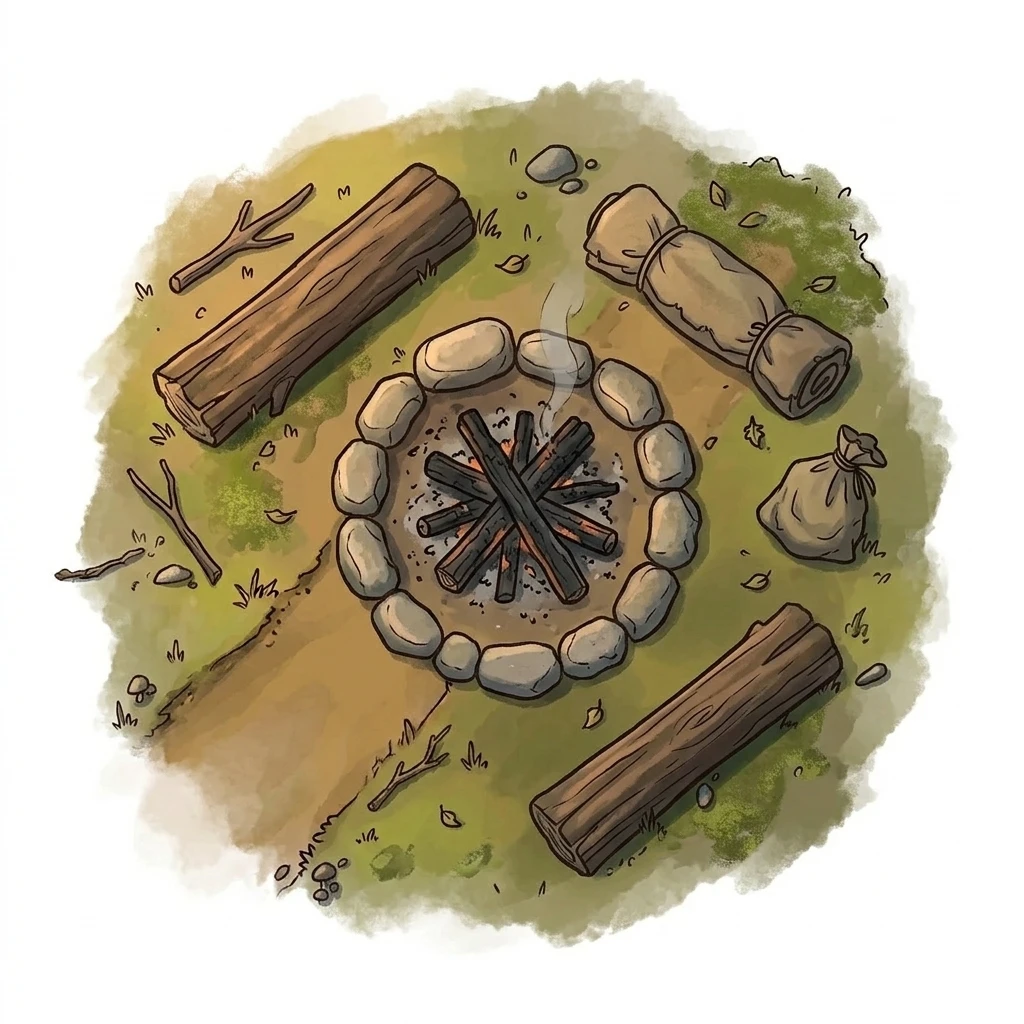
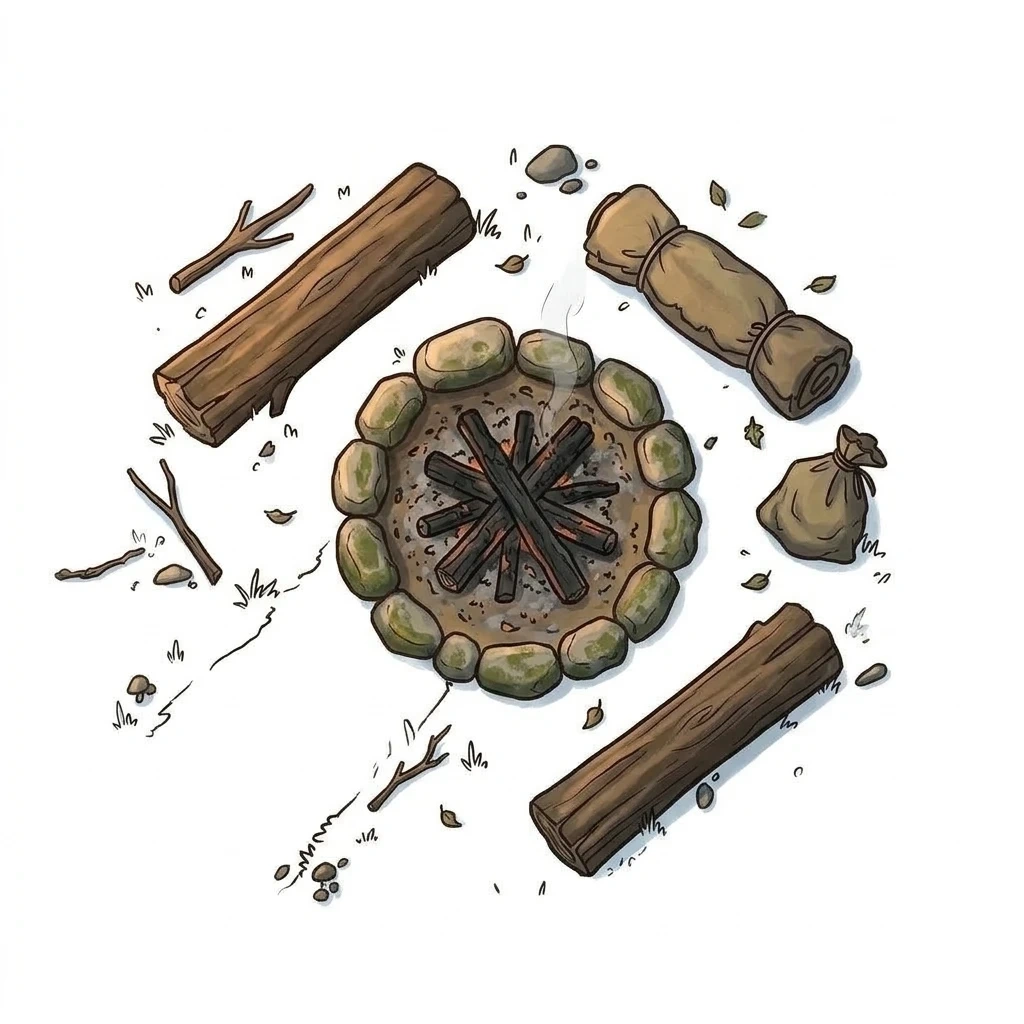
Арена: новые костёр и рыцарь, виньетки из отдельных предметов
Костёр и разбитая статуя рыцаря — новая картинка автора. Виньетки из отдельных предметов
на белом вырезаются по контуру, бледная тень становится полупрозрачной; под ними — своя
земля (утоптанная у костра, подстилка под обломками) и трава между предметами. Рыцарь
держит шаг, но не взгляд. Мост вырезан заново — прежняя нарезка была почти прозрачной.

diff --git a/scripts/arena/paint.js b/scripts/arena/paint.js
@@ -10,7 +10,7 @@
  * paint(plan, { cell, mood, art }) → HTMLCanvasElement
  */
 
-import { rng, distToPath } from "./layout.js";
+import { rng, distToPath, VIGNETTES } from "./layout.js";
 
 // ---------- Шум: бесшовный (на торе) и обычный
 
@@ -91,6 +91,8 @@ function masks(plan, cell, seed) {
     out.forest = make(patch('forest'));
     out.moss = make(patch('moss'));
     out.rock = make(patch('rock'));
+    out.dirt = make(patch('dirt'));
+    out.litter = make(patch('litter'));
     out.path = make((x, y, wob) => edge(distToPath(terrain.path, x, y) + wob * 0.9, 0.85, 0.25));
     // Вода: ручей и озерца — одно поле «расстояние до кромки» (отрицательное — в воде)
     const pools = terrain.pools ?? [];
@@ -306,6 +308,12 @@ function drawVignette(ctx, o, art, cell, tuftArt, seed) {
     ctx.save(); ctx.filter = `blur(${cell * 0.1}px)`; ctx.globalAlpha = 0.3; ctx.drawImage(silhouette(img), x + cell * 0.12, y + cell * 0.15, dw, dh); ctx.restore();
     ctx.drawImage(img, x, y, dw, dh);
     if (o.name === 'bridge') return;
+    // Трава прорастает и между предметами, по краям брёвен и обломков — не наклейка поверх травы; середина
+    // (очаг) — без травы
+    if (VIGNETTES[o.name]?.ground) for (let i = 0; tuftArt.length && i < o.w * o.h * 0.8; i++) {
+        const a = J.range(0, 6.28), d = 0.35 + Math.sqrt(J()) * 0.5, t = J.pick(tuftArt), sz = cell * J.range(0.18, 0.32), kk = sz / Math.max(t.width, t.height);
+        ctx.drawImage(t, o.x * cell + Math.cos(a) * d * dw / 2 - (t.width * kk) / 2, o.y * cell + Math.sin(a) * d * dh / 2 - (t.height * kk) / 2, t.width * kk, t.height * kk);
+    }
     for (let i = 0; tuftArt.length && i < o.w * o.h * 0.9; i++) {
         const a = J.range(0, 6.28), rx = dw / 2 * J.range(0.85, 1.05), ry = dh / 2 * J.range(0.85, 1.05), t = J.pick(tuftArt), sz = cell * J.range(0.25, 0.42), kk = sz / Math.max(t.width, t.height);
         ctx.drawImage(t, o.x * cell + Math.cos(a) * rx - (t.width * kk) / 2, o.y * cell + Math.sin(a) * ry - (t.height * kk) / 2, t.width * kk, t.height * kk);
@@ -375,7 +383,7 @@ export function paint(plan, { cell = 140, mood = 'day', art = {} } = {}) {
     const ctx = canvas.getContext('2d');
     const seed = plan.seed;
     // Текстуры: свои картинки (ground-<имя>-1), иначе заглушка; берега — грязь, мох и камень — трава/подстилка
-    const GROUND_ART = { grass: 'grass', forest: 'forest-floor', moss: 'grass', rock: art['ground-rock-1'] ? 'rock' : 'path', path: 'path', mud: 'mud', bank: 'mud', riverbed: 'riverbed' };
+    const GROUND_ART = { grass: 'grass', forest: 'forest-floor', litter: 'forest-floor', dirt: 'path', moss: 'grass', rock: art['ground-rock-1'] ? 'rock' : 'path', path: 'path', mud: 'mud', bank: 'mud', riverbed: 'riverbed' };
     const tex = type => art[`ground-${GROUND_ART[type]}-1`] ?? art[`ground-${type}`] ?? groundTexture(type, seed);
     const M = masks(plan, cell, seed);
 
@@ -384,6 +392,9 @@ export function paint(plan, { cell = 140, mood = 'day', art = {} } = {}) {
     layer(ctx, tex('forest'), M.forest, W, H, 0.95);
     layer(ctx, tex('moss'), M.moss, W, H, 0.8);
     layer(ctx, tex('rock'), M.rock, W, H, 0.9);
+    // Под виньетками из отдельных предметов — своя земля: утоптанная у костра, подстилка под обломками
+    layer(ctx, tex('litter'), M.litter, W, H, 0.9);
+    layer(ctx, tex('dirt'), M.dirt, W, H, 0.8);
     if (M.bank) layer(ctx, tex('bank'), M.bank, W, H);
     // Тропа — с тёмной кромкой (рисованный контур)
     const pathLayer = document.createElement('canvas'); pathLayer.width = W; pathLayer.height = H;

diff --git a/scripts/arena/layout.js b/scripts/arena/layout.js
@@ -88,12 +88,14 @@ export function pickScheme(R, encounter = {}) {
  * where: hero — центр интереса (средняя треть), side — у края; schemes — в каких схемах уместна.
  */
 export const VIGNETTES = {
-    // Костёр нарисован потушенным — зола и камни, без света
-    campfire: { w: 4, h: 4, where: 'side', circles: [[0, 0, 0.45]], rects: [], lights: [] },
+    // Костёр нарисован потушенным — зола и камни, без света. ground — пятно земли под виньеткой из отдельных
+    // предметов (без своего клочка земли на картинке): утоптанная земля или лесная подстилка
+    campfire: { w: 4, h: 4, where: 'side', circles: [[0, 0, 0.45]], rects: [], lights: [], ground: 'dirt' },
     wagon: { w: 5, h: 3, where: 'side', circles: [], rects: [[0, 0, 3.6, 1.6]], lights: [] },
     shrine: { w: 4, h: 4, where: 'hero', circles: [[0, 0, 1]], rects: [], lights: [{ x: 0, y: 0, dim: 8, bright: 2, color: '#2ee6d6', animation: 'pulse' }] },
     stones: { w: 6, h: 6, where: 'hero', circles: Array.from({ length: 7 }, (_, i) => [Math.cos((i / 7) * 6.283) * 2.3, Math.sin((i / 7) * 6.283) * 2.3, 0.4]), rects: [], lights: [] },
-    statue: { w: 5, h: 3, where: 'hero', circles: [], rects: [[0, 0, 3.8, 1.3]], lights: [] },
+    // Рыцарь — разбитая статуя лежит на земле: обломки держат шаг, но не взгляд (flat)
+    statue: { w: 5, h: 3, where: 'hero', circles: [], rects: [[0, 0, 3.8, 1.3]], lights: [], flat: true, ground: 'litter' },
     nest: { w: 4, h: 4, where: 'side', circles: [[0, 0, 1.2]], rects: [], lights: [] },
     bridge: { w: 2, h: 5, where: 'water', circles: [], rects: [], lights: [] }
 };
@@ -218,7 +220,11 @@ export function layout({ cols = 28, rows = 20, seed = 'arena', biome = 'forest',
         if (waterDist(x, y) < Math.max(w, h) / 2) return false;
         return !objects.some(o => Math.abs(o.x - x) < w / 2 + o.r + 0.3 && Math.abs(o.y - y) < h / 2 + o.r + 0.3);
     };
-    const vplace = (name, x, y) => objects.push({ kind: 'vignette', name, x, y, r: Math.max(VIGNETTES[name].w, VIGNETTES[name].h) / 2, w: VIGNETTES[name].w, h: VIGNETTES[name].h, rot: 0, variant: 1 });
+    const vplace = (name, x, y) => {
+        const v = VIGNETTES[name];
+        objects.push({ kind: 'vignette', name, x, y, r: Math.max(v.w, v.h) / 2, w: v.w, h: v.h, rot: 0, variant: 1 });
+        if (v.ground) patches.push({ type: v.ground, x, y, r: Math.max(v.w, v.h) * 0.42 });
+    };
     const avail = vignettes.filter(n => VIGNETTES[n]);
     // Мост — через ручей, где его пересекает тропа (вместо брода с камнями)
     if (avail.includes('bridge') && stream && ford && stream.width < 2.5 && R() < 0.6) vplace('bridge', ford.x, ford.y);

diff --git a/tools/stand/arena.html b/tools/stand/arena.html
@@ -11,9 +11,9 @@ const load = files => Promise.all(files.map(src => new Promise(resolve => {
     img.onerror = () => resolve(null);
     img.src = src;
 }))).then(list => Object.fromEntries(list.filter(Boolean)));
-window.render = async ({ files, mood, seed = 'proto', cols = 28, rows = 20 }) => {
+window.render = async ({ files, mood, seed = 'proto', cols = 28, rows = 20, only = null }) => {
     const art = await load(files);
-    const vignettes = Object.keys(VIGNETTES).filter(n => art[`vignette-${n}-1`] || art[`vignette-${n}`]);
+    const vignettes = Object.keys(VIGNETTES).filter(n => (art[`vignette-${n}-1`] || art[`vignette-${n}`]) && (!only || only.includes(n)));
     const plan = layout({ cols, rows, seed, biome: 'forest', vignettes, night: mood === 'night' });
     const canvas = paint(plan, { cell: 140, mood, art });
     document.getElementById('out').src = canvas.toDataURL('image/jpeg', 0.85);

diff --git a/scripts/arena/arena.js b/scripts/arena/arena.js
@@ -80,7 +80,7 @@ function wallsOf(plan) {
             for (const [cx, cy, r] of v.circles) ring(x + cx * CELL, y + cy * CELL, r * CELL, 8, r < 0.9 || v.lights.length ? step : low);
             for (const [cx, cy, w, h] of v.rects) {
                 const x0 = x + (cx - w / 2) * CELL, y0 = y + (cy - h / 2) * CELL, x1 = x0 + w * CELL, y1 = y0 + h * CELL;
-                for (const c of [[x0, y0, x1, y0], [x1, y0, x1, y1], [x1, y1, x0, y1], [x0, y1, x0, y0]]) walls.push({ c: c.map(Math.round), ...low });
+                for (const c of [[x0, y0, x1, y0], [x1, y0, x1, y1], [x1, y1, x0, y1], [x0, y1, x0, y0]]) walls.push({ c: c.map(Math.round), ...(v.flat ? step : low) });
             }
         } else if (o.kind === 'ruin') {
             // Как в paint.js: стена вдоль оси и вторая — поперёк, от угла

diff --git a/tools/battlemap/prepare.py b/tools/battlemap/prepare.py
@@ -1,5 +1,5 @@
 """
-Генератор арен — подготовка арта: python tools/battlemap/prepare.py [биом]
+Генератор арен — подготовка арта: python tools/battlemap/prepare.py [биом] [имена…]
 
 Берёт картинки из assets/battlemap/<биом>/_src/ (как пришли из генератора) и кладёт готовые в assets/battlemap/<биом>/:
 - ground-*      — бесшовная текстура 1024×1024 (стык краёв смешивается со сдвинутой копией);
@@ -14,18 +14,21 @@ from PIL import Image, ImageFilter, ImageChops
 
 ROOT = os.path.dirname(os.path.dirname(os.path.dirname(os.path.abspath(__file__))))
 BIOME = sys.argv[1] if len(sys.argv) > 1 else 'forest'
+# Только названные картинки (имя без расширения) — чтобы не пережимать весь биом ради одной замены
+ONLY = set(sys.argv[2:])
 SRC = os.path.join(ROOT, 'assets', 'battlemap', BIOME, '_src')
 OUT = os.path.join(ROOT, 'assets', 'battlemap', BIOME)
 
 
-def background_mask(im, tol=34):
-    """Маска фона: светлые малонасыщенные пиксели, связанные с краем картинки (заливка от краёв)."""
+def background_mask(im, tol=34, sat=28, holes=True):
+    """Маска фона: светлые малонасыщенные пиксели, связанные с краем картинки (заливка от краёв).
+    holes — замкнутые светлые пятна внутри тоже фон (просветы между ветвями)."""
     rgb = im.convert('RGB')
     w, h = rgb.size
     px = rgb.load()
     def is_bg(x, y):
         r, g, b = px[x, y]
-        return min(r, g, b) > 255 - tol and max(r, g, b) - min(r, g, b) < 28
+        return min(r, g, b) > 255 - tol and max(r, g, b) - min(r, g, b) < sat
     bg = bytearray(w * h)
     q = deque()
     for x in range(w):
@@ -40,7 +43,7 @@ def background_mask(im, tol=34):
             if 0 <= nx < w and 0 <= ny < h and not bg[ny * w + nx] and is_bg(nx, ny):
                 bg[ny * w + nx] = 1; q.append((nx, ny))
     # Замкнутые светлые пятна (между ветвями, в просветах) — тоже фон, если они не крошечные
-    for y0 in range(h):
+    for y0 in range(h if holes else 0):
         for x0 in range(w):
             if bg[y0 * w + x0] or not is_bg(x0, y0): continue
             region = [(x0, y0)]; bg[y0 * w + x0] = 2; q.append((x0, y0))
@@ -62,6 +65,19 @@ def cutout(im):
     alpha = ImageChops.invert(bg).filter(ImageFilter.MinFilter(3)).filter(ImageFilter.GaussianBlur(1.1))
     im.putalpha(alpha)
     return im
+
+
+def cutout_shadowed(im):
+    """Предметы на белом с бледной падающей тенью (голубоватой): белое — прочь, а бледная тень у предмета —
+    полупрозрачной тенью цвета «цвет в альфу», а не белёсой подложкой. Светлое внутри контура не трогается."""
+    # Бледное, связанное с краем (тень), и чисто белые просветы внутри (между обломками и лозой)
+    pale = ImageChops.lighter(background_mask(im, tol=115, sat=70, holes=False), background_mask(im))
+    obj = im.convert('RGBA')
+    obj.putalpha(ImageChops.invert(pale).filter(ImageFilter.MinFilter(3)).filter(ImageFilter.GaussianBlur(1.1)))
+    obj = dehalo(obj, im)
+    shadow = unwhite(im)
+    shadow.putalpha(ImageChops.multiply(shadow.getchannel('A'), pale).point(lambda v: round(v * 0.75)))
+    return Image.alpha_composite(shadow, obj)
 
 
 def unwhite(im):
@@ -157,6 +173,7 @@ def main():
     os.makedirs(OUT, exist_ok=True)
     for path in sorted(glob.glob(os.path.join(SRC, '*'))):
         name, _ = os.path.splitext(os.path.basename(path))
+        if ONLY and name not in ONLY: continue
         im = Image.open(path)
         if name.startswith('ground-'):
             seamless(im).save(os.path.join(OUT, f'{name}.webp'), quality=90)
@@ -178,9 +195,16 @@ def main():
             for i, p in enumerate(pieces, 1): fit(p).save(os.path.join(OUT, f'{base}-{i}.webp'), quality=92)
             print('лист вариантов', base, len(pieces), 'шт.')
         elif name.startswith('vignette-'):
-            # Сцена на клочке земли, край которого тает в белое: внутри — непрозрачно, по краю — «цвет в альфу»
             cut = cutout(im)
             inner = cut.getchannel('A').filter(ImageFilter.MinFilter(41)).filter(ImageFilter.GaussianBlur(14))
+            # Без клочка земли — отдельные предметы на белом (очаг, брёвна, обломки статуи): сплошная середина
+            # почти вся съедается сужением, и тогда вырезка — как у предмета, по контуру каждой штуки
+            solid = lambda a: sum(1 for v in a.getdata() if v > 128)
+            if solid(inner) < solid(cut.getchannel('A')) * 0.5:
+                fit(trim(cutout_shadowed(im)), 1400).save(os.path.join(OUT, f'{name}.webp'), quality=92)
+                print('виньетка из предметов', name)
+                continue
+            # Сцена на клочке земли, край которого тает в белое: внутри — непрозрачно, по краю — «цвет в альфу»
             soft = unwhite(im)
             alpha = ImageChops.lighter(inner, soft.getchannel('A'))
             res = Image.composite(im.convert('RGBA'), soft, inner)
